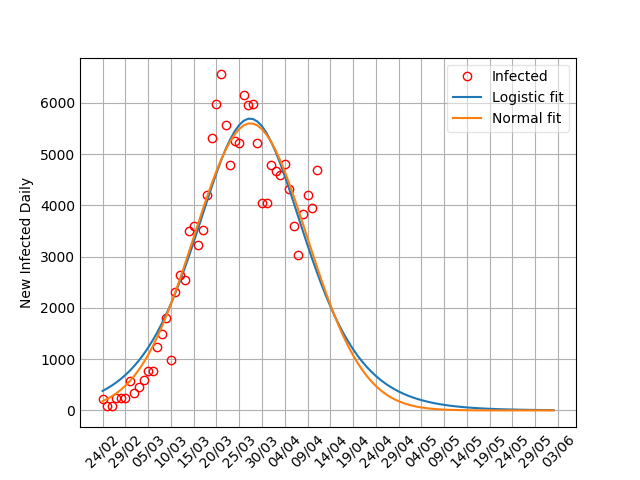
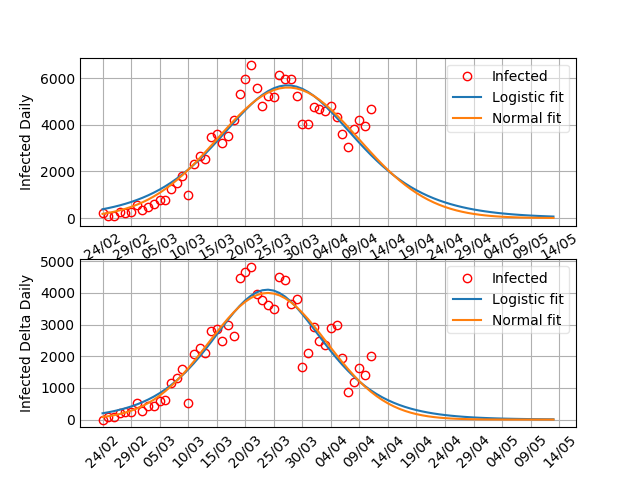
added forecast 12

Changed region(s): [[0.0312, 0.125, 0.9062, 0.9688], [0.0938, 0.8438, 0.125, 0.875]]

diff --git a/run_infection_daily.py b/run_infection_daily.py
@@ -1,33 +1,29 @@
 import numpy as np
 import scipy.optimize as opt
 import matplotlib.pyplot as plt
-from model import load_from_PC_increment_daily
+from model import load_from_PC_increment_daily, load_from_PC_delta_infected_daily
 import matplotlib.ticker as ticker
 import datetime as dt
 from datetime import date
-from scipy.stats import logistic, norm
 
 
 DATE_TO_START = '2020-02-24'
-DAYS = 100
+DAYS = 80
 
 def main():
     t = np.arange(0, DAYS)
 
+    # ----------------------------#
+    # ----- INFECTION DAILY ----- #
     infection = load_from_PC_increment_daily(remote=True)
+    infection_extended = np.concatenate((infection.values, [None] * (DAYS - len(infection.values))))
 
     x = np.arange(0, len(infection))
-
     # LOGISTIC FIT
     mean_est = sum(x * infection.values) / sum(infection.values)
     (a, c, d), _ = opt.curve_fit(logistic_function_pdf, x, infection.values, p0=[173084, 0.13, mean_est])
     print(a, c, d)
     infection_fit_logistic = logistic_function_pdf(t, a, c, d)
-
-
-    loc, scale = logistic.fit(infection)
-    print(loc, scale)
-    infection_fit_logistic2 = logistic.pdf(t, loc, scale)
 
     # GAUSSIAN FIT
     mean_est = sum(x * infection.values) / sum(infection.values)
@@ -36,31 +32,59 @@ def main():
     print(amplitude, mu, std)
     infection_fit_normal = gaussian_function_pdf(t, amplitude, mu, std)
 
-    infection_extended = np.concatenate((infection.values, [None] * (DAYS - len(infection.values))))
+    # --------------------------- #
+    # -- DELTA INFECTION DAILY -- #
+    delta_infection = load_from_PC_delta_infected_daily(remote=True)
+    infection_delta_extended = np.concatenate((delta_infection.values, [None] * (DAYS - len(delta_infection.values))))
 
-    ax = plt.subplot(111)
-    ax.plot(t, infection_extended, 'ro', alpha=1,  mfc='none', label='Infected')
-    ax.plot(t, infection_fit_logistic, label='Logistic fit')
-    #ax.plot(t, infection_fit_logistic2, label='Logistic2')
-    ax.plot(t, infection_fit_normal, label='Normal fit')
+    x = np.arange(0, len(delta_infection))
+    # LOGISTIC FIT
+    mean_est = sum(x * delta_infection.values) / sum(delta_infection.values)
+    (a, c, d), _ = opt.curve_fit(logistic_function_pdf, x, delta_infection.values, p0=[173084, 0.13, mean_est])
+    print(a, c, d)
+    infection_delta_fit_logistic = logistic_function_pdf(t, a, c, d)
 
+    # GAUSSIAN FIT
+    mean_est = sum(x * delta_infection.values) / sum(delta_infection.values)
+    sigma_est = sum(delta_infection.values * (x - mean_est) ** 2) / sum(delta_infection.values)
+    (amplitude, mu, std), _ = opt.curve_fit(gaussian_function_pdf, x, delta_infection.values, p0=[max(delta_infection.values), mean_est, sigma_est])
+    print(amplitude, mu, std)
+    infection_delta_fit_normal = gaussian_function_pdf(t, amplitude, mu, std)
 
-
-    ax.set_ylabel('New Infected Daily')
-    legend = ax.legend()
-    legend.get_frame().set_alpha(0.5)
-
-
+    # --------------------------- #
+    # ------- PLOT RESULTS ------ #
     def todate(x, pos):
         return (dt.datetime.strptime(DATE_TO_START, '%Y-%m-%d') + dt.timedelta(days=x)).strftime('%d/%m')
-
     fmt = ticker.FuncFormatter(todate)
+    # subplot 1
+    ax = plt.subplot(211)
+    ax.plot(t, infection_extended, 'ro', alpha=1,  mfc='none', label='Infected')
+    ax.plot(t, infection_fit_logistic, label='Logistic fit')
+    ax.plot(t, infection_fit_normal, label='Normal fit')
+    ax.set_ylabel('Infected Daily')
+    legend = ax.legend()
+    legend.get_frame().set_alpha(0.5)
     ax.xaxis.set_major_formatter(fmt)
-    ax.xaxis.set_tick_params(rotation=45)
+    ax.xaxis.set_tick_params(rotation=30)
     ax.xaxis.set_major_locator(ticker.MultipleLocator(5))
     ax.yaxis.set_tick_params(length=0)
     ax.xaxis.set_tick_params(length=0)
     ax.grid(b=True)
+
+    # subplot 2
+    ax2 = plt.subplot(212)
+    ax2.plot(t, infection_delta_extended, 'ro', alpha=1,  mfc='none', label='Infected')
+    ax2.plot(t, infection_delta_fit_logistic, label='Logistic fit')
+    ax2.plot(t, infection_delta_fit_normal, label='Normal fit')
+    ax2.set_ylabel('Infected Delta Daily')
+    legend = ax2.legend()
+    legend.get_frame().set_alpha(0.5)
+    ax2.xaxis.set_major_formatter(fmt)
+    ax2.xaxis.set_tick_params(rotation=45)
+    ax2.xaxis.set_major_locator(ticker.MultipleLocator(5))
+    ax2.yaxis.set_tick_params(length=0)
+    ax2.xaxis.set_tick_params(length=0)
+    ax2.grid(b=True)
 
     plt.savefig('forecast_daily/COVID_forecast_{}'.format(date.today().strftime('%d_%m')))
     plt.show()

diff --git a/model/loader.py b/model/loader.py
@@ -26,6 +26,10 @@ def load_from_PC_increment_daily(remote=False):
     df = pd.read_csv(path)
     return df['nuovi_positivi']
 
+def load_from_PC_delta_infected_daily(remote=False):
+    path = PATH_andamento_nazionale_remote if remote else PATH_andamento_nazionale_local
+    df = pd.read_csv(path)
+    return df['variazione_totale_positivi']
 
 def load_Region_from_PC(region, date= None, remote=False):
     path = PATH_andamento_regionale_remote if remote else PATH_andamento_regionale_local

diff --git a/model/__init__.py b/model/__init__.py
@@ -1,4 +1,4 @@
-from .loader import load_from_NCVS, load_from_PC, load_Region_from_PC, load_from_PC_increment_daily
+from .loader import load_from_NCVS, load_from_PC, load_Region_from_PC, load_from_PC_increment_daily, load_from_PC_delta_infected_daily
 from .sir import compute_SIR, train_SIR
 from .sird import compute_SIRD, train_SIRD
 

diff --git a/run_sir_model.py b/run_sir_model.py
@@ -134,7 +134,7 @@ def error_function_custom(I, R, infected, recovered):
 
 def error_function(I, R, infected, recovered):
     a = 0.7
-    n_windows = len(infected)
+    n_windows = 30
     #weights = np.linspace(0, 1, len(infected))
     #weights = np.ones(len(infected))
     # use exponential weights

diff --git a/run_sird_model.py b/run_sird_model.py
@@ -80,7 +80,7 @@ def main():
 
 def error_function(I, R, D, infected, recovered, deaths):
     a, b, c = 0.7, 0.15, 0.15
-    n_windows = len(infected)
+    n_windows = 30
     #weights = np.linspace(0, 1, len(infected))
     #weights = np.ones(len(infected))
     # use exponential weights

diff --git a/README.md b/README.md
@@ -56,3 +56,7 @@
 11/04|11/04
 ------------ | -------------
 ![forecast](/forecast_SIRD/COVID_forecast_11_04.png)|  ![forecast](/forecast_daily/COVID_forecast_11_04.png)|
+
+12/04|12/04
+------------ | -------------
+![forecast](/forecast_SIRD/COVID_forecast_12_04.png)|  ![forecast](/forecast_daily/COVID_forecast_12_04.png)|
